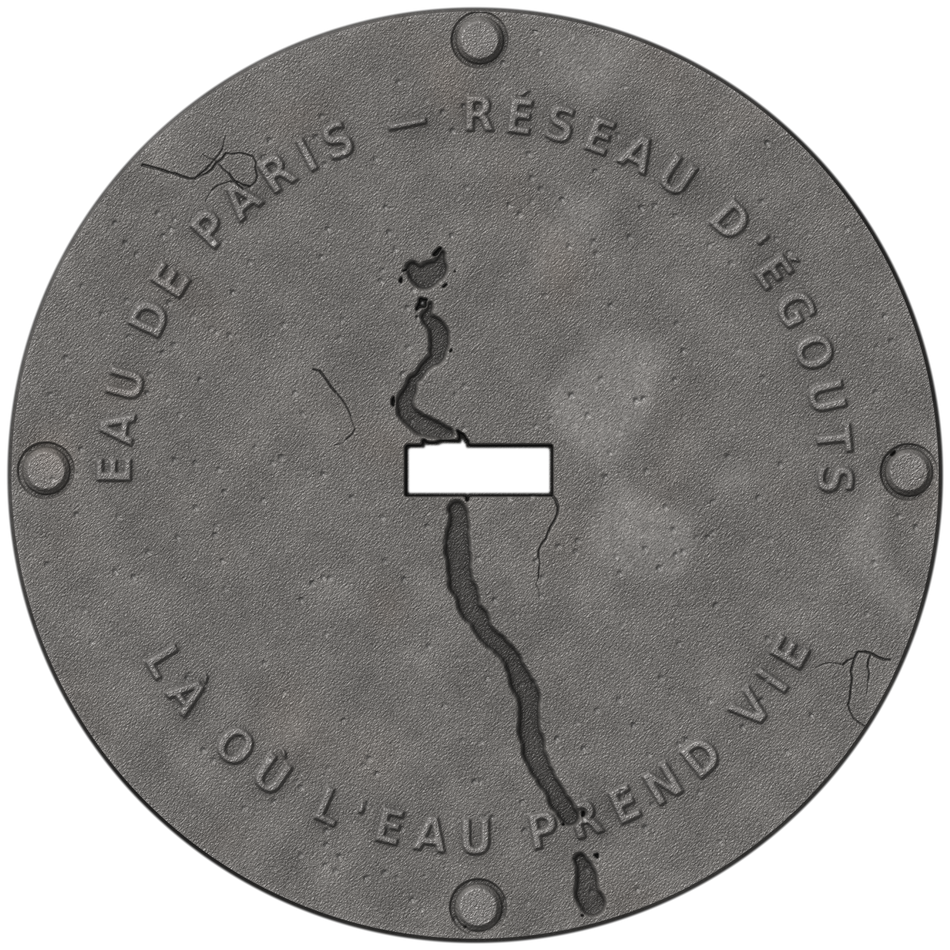
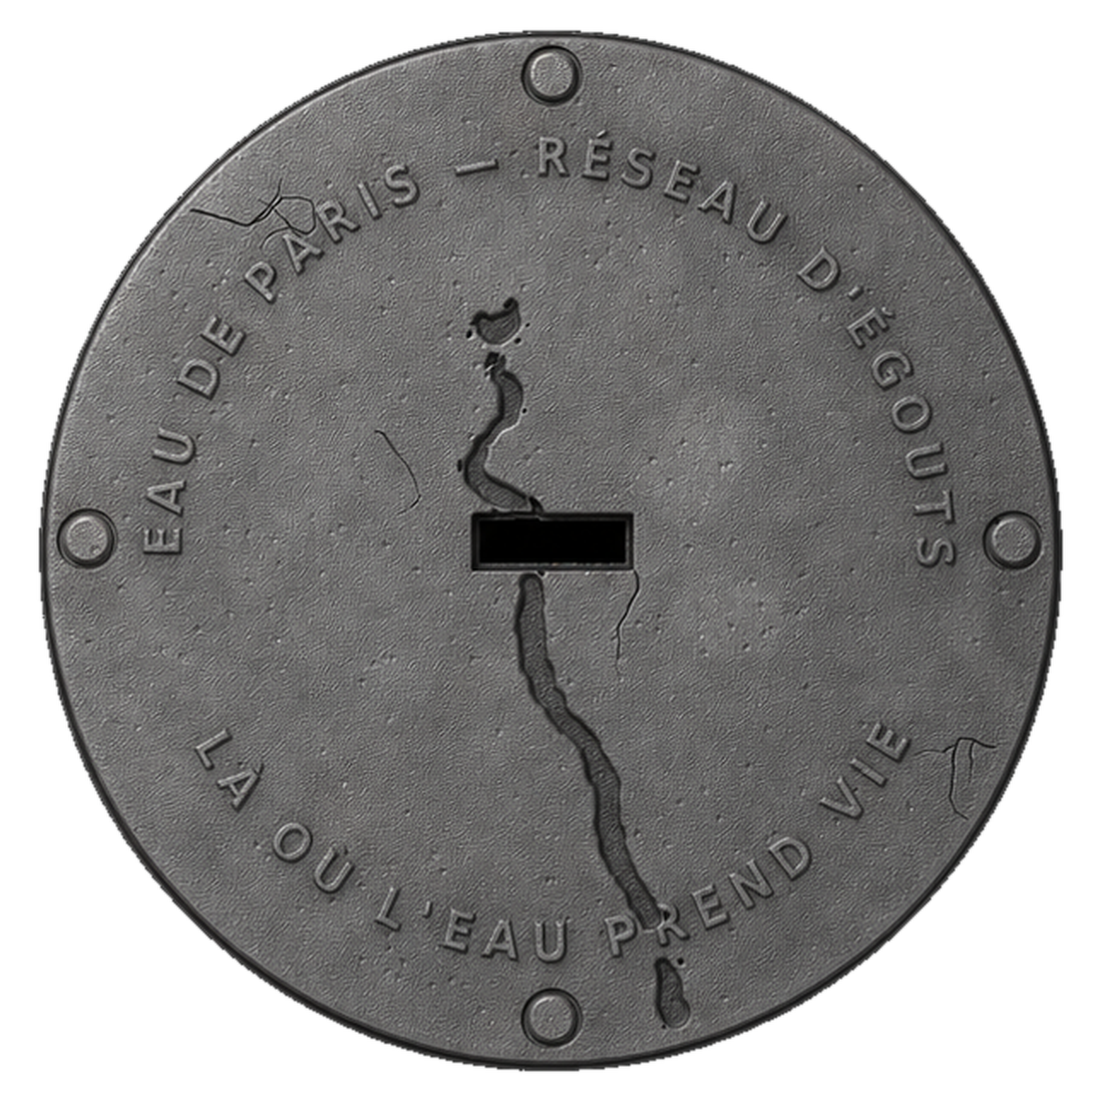
feat(plaques): nouveaux rendus fins + tracés du ru importés (I, II, III)
- Remplace les 3 images de plaque en fonte par les nouveaux rendus 1100px
  (sillon aminci) fournis par Eliott.
- Importe les tracés extraits au pixel dans onde-paths.ts : plaque I en
  2 segments (split à la fente), plaques II & III en trait continu.
- Trait affiné (0.85, bouts plats) cohérent avec les sillons fins.
- Le masque du halo QR se recale automatiquement sur les nouveaux tracés.

diff --git a/src/data/onde-paths.ts b/src/data/onde-paths.ts
@@ -1,23 +1,32 @@
 /* =========================================================================
-   Tracés exacts du ru gravé sur chaque plaque en fonte, relevés depuis les
-   maquettes (repère normalisé 0–100, aligné sur les rendus 950×950).
-   Deux segments `top` / `bot` (interrompus par la poignée centrale) ;
-   `bot` peut être null (plaque au tracé continu). Révélés au survol.
+   Tracés exacts du ru gravé sur chaque plaque en fonte.
+   Relevés au pixel depuis les rendus 3D finaux (repère normalisé 0–100,
+   viewBox 0 0 100 100, preserveAspectRatio="none" → calés sur l'image).
+   `top` / `bot` : deux segments interrompus par la fente centrale (plaque 1) ;
+   `bot` = null pour un tracé continu (plaques 2 & 3). Révélés au survol.
    ========================================================================= */
 
 export type OndePath = { top: string; bot: string | null };
 
 export const ondePaths: Record<string, OndePath> = {
+  // Plaque 1 — Belleville · « LÀ OÙ L'EAU PREND VIE »
+  // 2 segments verticaux, coupés à la fente (le haut se dessine, puis le bas).
   "aux-sources-du-ru": {
-    top: "M 44.1 25.0 L 44.6 25.2 L 45.0 25.5 L 45.3 25.7 L 45.5 26.0 L 45.8 26.2 L 46.0 26.4 L 46.1 26.7 L 46.0 26.9 L 45.8 27.1 L 45.6 27.4 L 45.4 27.6 L 45.2 27.9 L 45.1 28.1 L 45.1 28.3 L 45.1 28.6 L 45.1 28.8 L 45.0 29.1 L 44.8 29.3 L 44.8 29.5 L 44.9 29.8 L 45.3 30.0 L 45.9 30.2 L 46.6 30.5 L 47.1 30.7 L 47.1 31.0 L 46.7 31.2 L 46.1 31.4 L 45.6 31.7 L 45.2 31.9 L 45.1 32.2 L 45.1 32.4 L 45.2 32.6 L 45.4 32.9 L 45.5 33.1 L 45.5 33.3 L 45.5 33.6 L 45.5 33.8 L 45.6 34.1 L 45.8 34.3 L 46.0 34.5 L 46.1 34.8 L 46.2 35.0 L 46.2 35.3 L 46.1 35.5 L 46.1 35.7 L 46.0 36.0 L 46.0 36.2 L 46.1 36.5 L 46.1 36.7 L 46.1 36.9 L 45.9 37.2 L 45.7 37.4 L 45.5 37.6 L 45.3 37.9 L 45.0 38.1 L 44.8 38.4 L 44.5 38.6 L 44.3 38.8 L 44.2 39.1 L 44.0 39.3 L 43.7 39.6 L 43.5 39.8 L 43.3 40.0 L 43.2 40.3 L 43.1 40.5 L 43.0 40.7 L 42.9 41.0 L 42.8 41.2 L 42.7 41.5 L 42.7 41.7 L 42.6 41.9 L 42.6 42.2 L 42.6 42.4 L 42.7 42.7 L 42.9 42.9 L 43.1 43.1 L 43.4 43.4 L 43.6 43.6 L 44.0 43.8 L 44.3 44.1 L 44.7 44.3 L 45.0 44.6 L 45.4 44.8 L 45.7 45.0 L 45.9 45.3 L 46.2 45.5 L 46.4 45.8 L 46.8 46.0 L 47.5 46.2 L 48.1 46.5 L 48.2 46.7",
-    bot: "M 49.7 52.4 L 49.5 52.7 L 49.0 52.9 L 48.5 53.1 L 48.2 53.4 L 48.1 53.6 L 48.1 53.9 L 48.1 54.1 L 48.1 54.3 L 48.1 54.6 L 48.1 54.8 L 48.1 55.1 L 48.1 55.3 L 48.1 55.5 L 48.1 55.8 L 48.1 56.0 L 48.0 56.2 L 48.0 56.5 L 48.0 56.7 L 48.0 57.0 L 48.0 57.2 L 48.0 57.4 L 48.0 57.7 L 48.0 57.9 L 47.9 58.2 L 47.9 58.4 L 47.8 58.6 L 47.8 58.9 L 47.8 59.1 L 47.9 59.4 L 48.0 59.6 L 48.1 59.8 L 48.2 60.1 L 48.2 60.3 L 48.2 60.5 L 48.3 60.8 L 48.3 61.0 L 48.4 61.3 L 48.4 61.5 L 48.5 61.7 L 48.6 62.0 L 48.7 62.2 L 48.9 62.5 L 49.0 62.7 L 49.0 62.9 L 49.1 63.2 L 49.2 63.4 L 49.3 63.6 L 49.5 63.9 L 49.7 64.1 L 49.9 64.4 L 50.0 64.6 L 50.2 64.8 L 50.3 65.1 L 50.5 65.3 L 50.7 65.6 L 50.8 65.8 L 50.9 66.0 L 51.1 66.3 L 51.2 66.5 L 51.4 66.7 L 51.6 67.0 L 51.7 67.2 L 51.8 67.5 L 52.0 67.7 L 52.2 67.9 L 52.4 68.2 L 52.6 68.4 L 52.7 68.7 L 52.9 68.9 L 53.1 69.1 L 53.2 69.4 L 53.3 69.6 L 53.4 69.8 L 53.4 70.1 L 53.5 70.3 L 53.5 70.6 L 53.6 70.8 L 53.7 71.0 L 53.8 71.3 L 53.9 71.5 L 54.0 71.8 L 54.1 72.0 L 54.1 72.2 L 54.3 72.5 L 54.4 72.7 L 54.6 72.9 L 54.7 73.2 L 54.8 73.4 L 54.8 73.7 L 54.8 73.9 L 54.9 74.1 L 54.9 74.4 L 54.9 74.6 L 54.9 74.9 L 54.9 75.1 L 55.0 75.3 L 55.1 75.6 L 55.1 75.8 L 55.1 76.0 L 55.1 76.3 L 55.1 76.5 L 55.1 76.8 L 55.2 77.0 L 55.2 77.2 L 55.3 77.5 L 55.3 77.7 L 55.3 78.0 L 55.3 78.2 L 55.3 78.4 L 55.3 78.7 L 55.4 78.9 L 55.4 79.2 L 55.4 79.4 L 55.4 79.6 L 55.4 79.9",
+    top: "M 46.45 27.00 C 46.35 27.21 46.11 27.85 45.84 28.27 C 45.58 28.70 45.05 29.12 44.88 29.55 C 44.71 29.97 44.81 30.29 44.83 30.82 C 44.84 31.35 44.84 32.20 44.96 32.73 C 45.09 33.26 45.34 33.58 45.56 34.00 C 45.78 34.42 46.17 34.85 46.27 35.27 C 46.38 35.70 46.26 36.12 46.18 36.55 C 46.10 36.97 46.07 37.39 45.81 37.82 C 45.55 38.24 44.96 38.67 44.61 39.09 C 44.25 39.52 43.94 39.94 43.66 40.36 C 43.38 40.79 43.03 41.21 42.93 41.64 C 42.84 42.06 42.80 42.48 43.07 42.91 C 43.33 43.33 44.29 43.95 44.55 44.18 C 44.80 44.41 44.60 44.26 44.61 44.27",
+    bot: "M 48.31 53.00 C 48.32 53.21 48.42 53.85 48.37 54.27 C 48.33 54.70 48.08 55.12 48.04 55.55 C 47.99 55.97 48.12 56.39 48.13 56.82 C 48.13 57.24 48.02 57.67 48.07 58.09 C 48.12 58.52 48.30 58.94 48.40 59.36 C 48.51 59.79 48.57 60.21 48.70 60.64 C 48.82 61.06 48.95 61.48 49.14 61.91 C 49.33 62.33 49.59 62.76 49.83 63.18 C 50.08 63.61 50.28 64.03 50.59 64.45 C 50.90 64.88 51.29 65.30 51.68 65.73 C 52.06 66.15 52.60 66.58 52.91 67.00 C 53.23 67.42 53.36 67.85 53.59 68.27 C 53.81 68.70 54.08 69.12 54.25 69.55 C 54.43 69.97 54.48 70.39 54.63 70.82 C 54.77 71.24 55.01 71.67 55.11 72.09 C 55.20 72.52 55.18 72.94 55.19 73.36 C 55.19 73.79 55.14 74.21 55.14 74.64 C 55.14 75.06 55.17 75.48 55.18 75.91 C 55.18 76.33 55.18 76.86 55.18 77.18 C 55.18 77.50 55.18 77.71 55.18 77.82",
   },
+
+  // Plaque 2 — Canal Saint-Martin · « TOUT COMMENCE PAR UN RU »
+  // 1 trait continu en diagonale (dessiné du haut, près de « D'ÉGOUTS », vers le bas-gauche).
   "saint-martin": {
-    top: "M 73 26 L 71.5 30 L 70 34 L 68 38 L 65.5 41 L 62.5 44 L 60 46.5 L 58 48",
-    bot: "M 44 53 L 40 55.5 L 35 58.5 L 30 61.5 L 25 64.5 L 20 67 L 15 69.5 L 10.5 71.5",
+    top: "M 71.41 27.20 C 71.32 27.44 71.07 28.14 70.89 28.61 C 70.71 29.07 70.52 29.54 70.33 30.00 C 70.13 30.46 69.92 30.91 69.71 31.37 C 69.50 31.82 69.28 32.27 69.06 32.72 C 68.84 33.16 68.61 33.61 68.39 34.05 C 68.16 34.50 67.94 34.95 67.72 35.40 C 67.50 35.85 67.29 36.30 67.07 36.75 C 66.85 37.20 66.64 37.65 66.41 38.09 C 66.17 38.53 65.92 38.97 65.66 39.39 C 65.40 39.82 65.13 40.24 64.85 40.66 C 64.58 41.08 64.32 41.51 64.03 41.91 C 63.74 42.32 63.43 42.72 63.10 43.08 C 62.76 43.45 62.38 43.78 62.01 44.12 C 61.64 44.45 61.24 44.75 60.87 45.09 C 60.51 45.43 60.15 45.78 59.82 46.16 C 59.48 46.53 59.14 46.91 58.88 47.33 C 58.63 47.75 58.41 48.22 58.27 48.69 C 58.12 49.16 58.12 49.68 58.00 50.16 C 57.89 50.64 57.80 51.16 57.55 51.58 C 57.31 52.00 56.94 52.38 56.56 52.68 C 56.17 52.98 55.69 53.18 55.23 53.36 C 54.77 53.54 54.27 53.63 53.78 53.75 C 53.30 53.87 52.81 53.98 52.33 54.09 C 51.84 54.21 51.35 54.31 50.87 54.43 C 50.38 54.56 49.90 54.69 49.42 54.83 C 48.94 54.98 48.47 55.15 47.99 55.30 C 47.52 55.44 47.04 55.60 46.56 55.72 C 46.07 55.84 45.58 55.94 45.09 56.02 C 44.60 56.10 44.10 56.14 43.60 56.21 C 43.11 56.28 42.61 56.34 42.12 56.43 C 41.63 56.52 41.14 56.64 40.66 56.75 C 40.17 56.87 39.68 56.98 39.20 57.11 C 38.72 57.25 38.24 57.39 37.77 57.57 C 37.30 57.74 36.85 57.95 36.40 58.16 C 35.95 58.38 35.52 58.64 35.08 58.88 C 34.64 59.12 34.21 59.37 33.77 59.61 C 33.33 59.85 32.90 60.10 32.46 60.34 C 32.02 60.59 31.59 60.83 31.16 61.08 C 30.72 61.33 30.29 61.59 29.86 61.84 C 29.43 62.09 29.00 62.35 28.57 62.61 C 28.15 62.86 27.72 63.12 27.29 63.37 C 26.85 63.62 26.41 63.86 25.97 64.10 C 25.53 64.34 25.09 64.57 24.64 64.79 C 24.20 65.02 23.75 65.24 23.29 65.44 C 22.83 65.63 22.36 65.81 21.89 65.96 C 21.41 66.11 20.92 66.21 20.43 66.32 C 19.95 66.44 19.45 66.51 18.97 66.64 C 18.49 66.76 18.00 66.90 17.53 67.07 C 17.06 67.24 16.62 67.47 16.16 67.68 C 15.71 67.88 15.25 68.08 14.80 68.30 C 14.34 68.51 13.90 68.74 13.45 68.96 C 13.00 69.18 12.55 69.39 12.10 69.61 C 11.65 69.83 10.99 70.18 10.77 70.30",
+    bot: null,
   },
+
+  // Plaque 3 — Le Marais · « ICI L'EAU RÉGNAIT »
+  // 1 trait continu ondulé horizontal (dessiné de droite vers la gauche).
   "le-marais": {
-    top: "M 5.0 58.5 L 5.2 58.5 L 5.5 58.5 L 5.8 58.5 L 6.1 58.6 L 6.4 58.7 L 6.7 58.8 L 7.0 58.8 L 7.3 58.8 L 7.5 58.8 L 7.8 58.9 L 8.1 59.1 L 8.4 59.2 L 8.7 59.4 L 9.0 59.5 L 9.3 59.5 L 9.5 59.5 L 9.8 59.5 L 10.1 59.5 L 10.4 59.5 L 10.7 59.4 L 11.0 59.3 L 11.3 59.2 L 11.5 59.1 L 11.8 59.0 L 12.1 59.0 L 12.4 58.9 L 12.7 58.8 L 13.0 58.8 L 13.3 58.7 L 13.5 58.8 L 13.8 58.8 L 14.1 58.9 L 14.4 59.0 L 14.7 59.1 L 15.0 59.2 L 15.3 59.4 L 15.6 59.5 L 15.8 59.5 L 16.1 59.6 L 16.4 59.5 L 16.7 59.6 L 17.0 59.6 L 17.3 59.8 L 17.6 59.9 L 17.8 60.1 L 18.1 60.3 L 18.4 60.5 L 18.7 60.7 L 19.0 60.9 L 19.3 61.0 L 19.6 61.1 L 19.8 61.1 L 20.1 61.0 L 20.4 60.9 L 20.7 60.9 L 21.0 60.8 L 21.3 60.8 L 21.6 60.8 L 21.9 60.9 L 22.1 60.9 L 22.4 60.9 L 22.7 60.9 L 23.0 60.9 L 23.3 60.8 L 23.6 60.7 L 23.9 60.7 L 24.1 60.6 L 24.4 60.6 L 24.7 60.5 L 25.0 60.5 L 25.3 60.5 L 25.6 60.4 L 25.9 60.4 L 26.1 60.4 L 26.4 60.4 L 26.7 60.5 L 27.0 60.6 L 27.3 60.7 L 27.6 60.8 L 27.9 60.8 L 28.1 60.7 L 28.4 60.6 L 28.7 60.5 L 29.0 60.5 L 29.3 60.7 L 29.6 60.8 L 29.9 60.9 L 30.2 60.9 L 30.4 60.9 L 30.7 60.9 L 31.0 60.9 L 31.3 60.8 L 31.6 60.7 L 31.9 60.6 L 32.2 60.5 L 32.4 60.4 L 32.7 60.4 L 33.0 60.4 L 33.3 60.5 L 33.6 60.5 L 33.9 60.5 L 34.2 60.5 L 34.4 60.6 L 34.7 60.6 L 35.0 60.7 L 35.3 60.8 L 35.6 60.8 L 35.9 60.8 L 36.2 60.9 L 36.5 60.9 L 36.7 61.0 L 37.0 61.1 L 37.3 61.2 L 37.6 61.3 L 37.9 61.4 L 38.2 61.4 L 38.5 61.4 L 38.7 61.4 L 39.0 61.3 L 39.3 61.2 L 39.6 61.0 L 39.9 60.9 L 40.2 60.8 L 40.5 60.7 L 40.7 60.6 L 41.0 60.6 L 41.3 60.4 L 41.6 60.3 L 41.9 60.0 L 42.2 59.8 L 42.5 59.5 L 42.7 59.4 L 43.0 59.3 L 43.3 59.4 L 43.6 59.4 L 43.9 59.4 L 44.2 59.3 L 44.5 59.3 L 44.8 59.3 L 45.0 59.3 L 45.3 59.3 L 45.6 59.3 L 45.9 59.4 L 46.2 59.5 L 46.5 59.6 L 46.8 59.7 L 47.0 59.8 L 47.3 59.8 L 47.6 59.9 L 47.9 59.9 L 48.2 60.0 L 48.5 60.0 L 48.8 60.0 L 49.0 60.0 L 49.3 60.0 L 49.6 60.0 L 49.9 60.1 L 50.2 60.2 L 50.5 60.3 L 50.8 60.3 L 51.0 60.3 L 51.3 60.2 L 51.6 60.2 L 51.9 60.2 L 52.2 60.3 L 52.5 60.3 L 52.8 60.4 L 53.1 60.5 L 53.3 60.5 L 53.6 60.5 L 53.9 60.5 L 54.2 60.4 L 54.5 60.3 L 54.8 60.2 L 55.1 60.2 L 55.3 60.3 L 55.6 60.2 L 55.9 60.2 L 56.2 60.2 L 56.5 60.1 L 56.8 59.9 L 57.1 59.8 L 57.3 59.7 L 57.6 59.5 L 57.9 59.4 L 58.2 59.4 L 58.5 59.5 L 58.8 59.6 L 59.1 59.8 L 59.4 59.9 L 59.6 59.9 L 59.9 59.9 L 60.2 59.9 L 60.5 59.8 L 60.8 59.7 L 61.1 59.7 L 61.4 59.8 L 61.6 59.9 L 61.9 60.0 L 62.2 60.1 L 62.5 60.3 L 62.8 60.4 L 63.1 60.6 L 63.4 60.8 L 63.6 60.9 L 63.9 61.0 L 64.2 61.1 L 64.5 61.1 L 64.8 61.2 L 65.1 61.3 L 65.4 61.4 L 65.6 61.4 L 65.9 61.5 L 66.2 61.4 L 66.5 61.4 L 66.8 61.3 L 67.1 61.3 L 67.4 61.4 L 67.7 61.5 L 67.9 61.5 L 68.2 61.5 L 68.5 61.5 L 68.8 61.6 L 69.1 61.6 L 69.4 61.7 L 69.7 61.7 L 69.9 61.7 L 70.2 61.7 L 70.5 61.8 L 70.8 61.8 L 71.1 61.8 L 71.4 61.7 L 71.7 61.6 L 71.9 61.4 L 72.2 61.2 L 72.5 61.0 L 72.8 60.8 L 73.1 60.6 L 73.4 60.5 L 73.7 60.5 L 74.0 60.4 L 74.2 60.4 L 74.5 60.4 L 74.8 60.3 L 75.1 60.2 L 75.4 60.1 L 75.7 60.1 L 76.0 60.0 L 76.2 60.0 L 76.5 60.0 L 76.8 60.1 L 77.1 60.1 L 77.4 60.1 L 77.7 60.1 L 78.0 60.1 L 78.2 60.2 L 78.5 60.3 L 78.8 60.3 L 79.1 60.3 L 79.4 60.4 L 79.7 60.4 L 80.0 60.4 L 80.2 60.4 L 80.5 60.3 L 80.8 60.2 L 81.1 60.2 L 81.4 60.2 L 81.7 60.2 L 82.0 60.1 L 82.3 60.1 L 82.5 60.1 L 82.8 60.1 L 83.1 60.2 L 83.4 60.3 L 83.7 60.3 L 84.0 60.3 L 84.3 60.3 L 84.5 60.3 L 84.8 60.3 L 85.1 60.3 L 85.4 60.3 L 85.7 60.2 L 86.0 60.2 L 86.3 60.1 L 86.5 60.1 L 86.8 60.1 L 87.1 60.2 L 87.4 60.3 L 87.7 60.5 L 88.0 60.7 L 88.3 61.0 L 88.5 61.2 L 88.8 61.5 L 89.1 61.7 L 89.4 61.9 L 89.7 62.0 L 90.0 62.0 L 90.3 62.1 L 90.6 62.2 L 90.8 62.4 L 91.1 62.5 L 91.4 62.6 L 91.7 62.6 L 92.0 62.4 L 92.3 62.1 L 92.6 61.7 L 92.8 61.3 L 93.1 60.8 L 93.4 60.4 L 93.7 60.1 L 94.0 59.9 L 94.3 59.7 L 94.6 59.8 L 94.8 59.9",
+    top: "M 87.36 59.30 C 87.11 59.30 86.36 59.31 85.86 59.30 C 85.36 59.29 84.86 59.32 84.36 59.27 C 83.87 59.21 83.38 59.10 82.89 58.97 C 82.41 58.84 81.94 58.66 81.47 58.49 C 81.00 58.33 80.53 58.15 80.06 57.99 C 79.59 57.83 79.11 57.68 78.63 57.53 C 78.16 57.37 77.69 57.18 77.21 57.06 C 76.72 56.94 76.22 56.86 75.73 56.82 C 75.23 56.77 74.73 56.78 74.23 56.78 C 73.73 56.78 73.22 56.75 72.73 56.83 C 72.24 56.90 71.77 57.07 71.29 57.23 C 70.82 57.39 70.37 57.61 69.90 57.78 C 69.43 57.96 68.97 58.15 68.49 58.27 C 68.01 58.40 67.50 58.46 67.01 58.51 C 66.51 58.57 66.00 58.65 65.51 58.60 C 65.02 58.55 64.54 58.36 64.08 58.18 C 63.61 58.00 63.18 57.75 62.73 57.53 C 62.28 57.31 61.85 57.06 61.38 56.88 C 60.92 56.70 60.44 56.55 59.95 56.45 C 59.46 56.35 58.96 56.33 58.46 56.31 C 57.96 56.28 57.46 56.28 56.96 56.31 C 56.46 56.33 55.95 56.35 55.47 56.46 C 54.99 56.56 54.52 56.77 54.06 56.96 C 53.60 57.15 53.15 57.38 52.71 57.61 C 52.26 57.83 51.83 58.09 51.39 58.32 C 50.94 58.54 50.50 58.78 50.03 58.95 C 49.57 59.13 49.09 59.28 48.60 59.37 C 48.11 59.45 47.60 59.44 47.10 59.46 C 46.60 59.47 46.10 59.46 45.60 59.46 C 45.10 59.46 44.60 59.46 44.10 59.46 C 43.60 59.46 43.10 59.46 42.60 59.46 C 42.10 59.46 41.60 59.45 41.10 59.46 C 40.60 59.47 40.10 59.47 39.60 59.53 C 39.11 59.59 38.63 59.74 38.13 59.81 C 37.64 59.88 37.13 59.87 36.64 59.94 C 36.15 60.02 35.67 60.18 35.18 60.28 C 34.69 60.38 34.20 60.49 33.70 60.53 C 33.21 60.58 32.70 60.56 32.20 60.56 C 31.70 60.57 31.20 60.58 30.70 60.56 C 30.20 60.54 29.70 60.53 29.21 60.44 C 28.72 60.35 28.25 60.15 27.77 60.02 C 27.29 59.89 26.80 59.77 26.32 59.64 C 25.84 59.51 25.35 59.40 24.88 59.23 C 24.41 59.06 23.94 58.88 23.50 58.64 C 23.06 58.41 22.67 58.09 22.24 57.84 C 21.81 57.58 21.38 57.33 20.93 57.10 C 20.49 56.88 20.04 56.66 19.57 56.48 C 19.11 56.30 18.63 56.12 18.14 56.04 C 17.65 55.96 17.14 55.99 16.64 55.99 C 16.14 55.99 15.64 56.02 15.14 56.06 C 14.65 56.11 14.16 56.21 13.66 56.26 C 13.16 56.32 12.42 56.38 12.17 56.40",
     bot: null,
   },
 };

diff --git a/src/app/plaques/plaque.module.css b/src/app/plaques/plaque.module.css
@@ -357,8 +357,8 @@
 .ru {
   fill: none;
   stroke: var(--eau);
-  stroke-width: 1.25;
-  stroke-linecap: round;
+  stroke-width: 0.85;
+  stroke-linecap: butt;
   stroke-linejoin: round;
   filter: drop-shadow(0 0 3px var(--eau)) drop-shadow(0 0 8px rgba(99, 208, 222, 0.7));
   opacity: 0;
